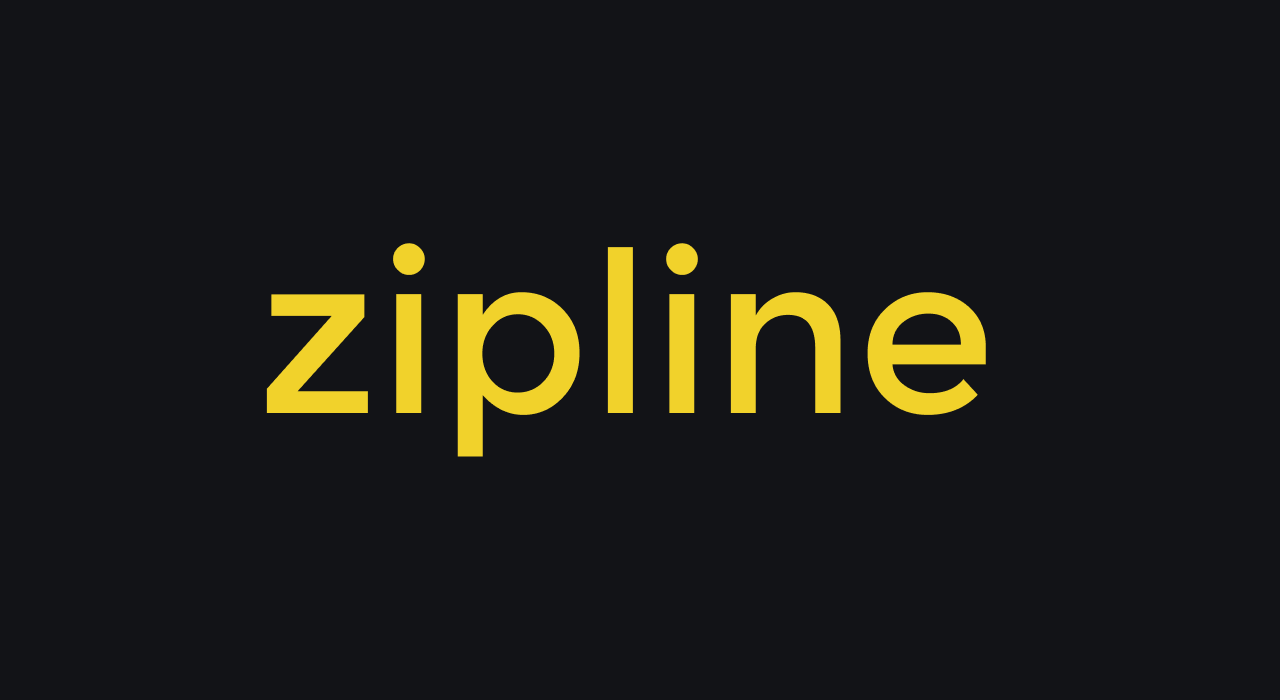
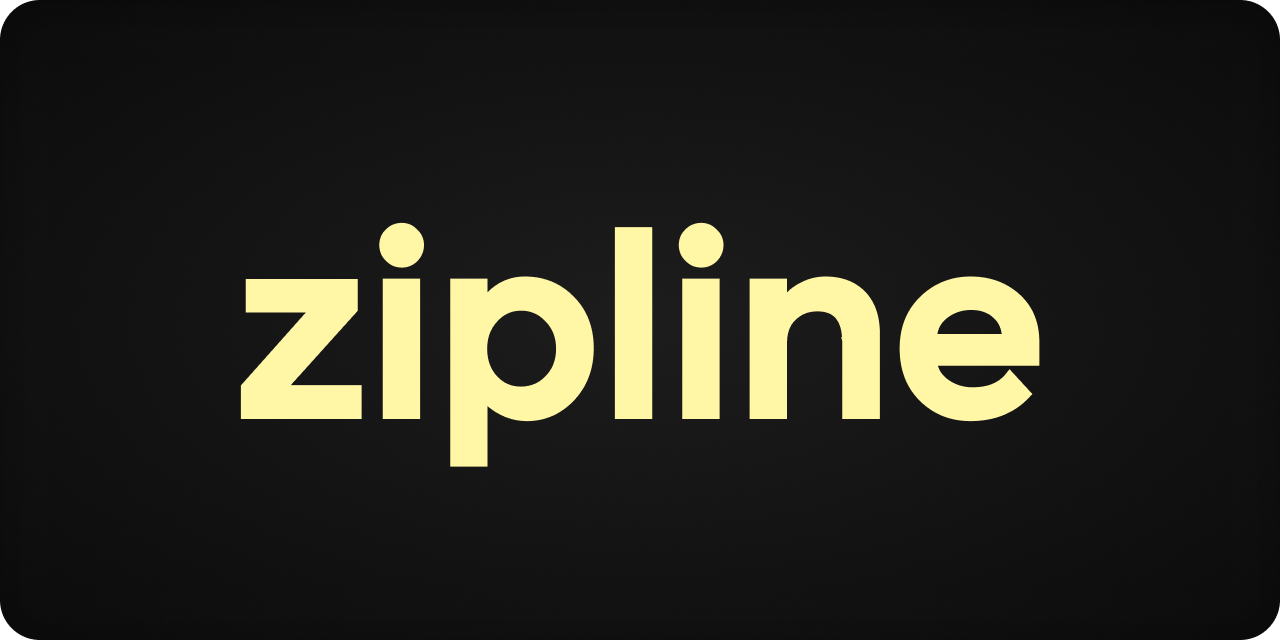
feat: update branding + update next.js

diff --git a/src/pages/premium.tsx b/src/pages/premium.tsx
@@ -1,0 +1,78 @@
+import { GetServerSideProps } from 'next';
+import { useRouter } from 'next/router';
+import { NextSeo } from 'next-seo';
+
+import Center from '../components/Center';
+import Container from '../components/Container';
+import { useEffect } from 'react';
+
+export default function Premium({ stars }: { stars: number }) {
+  const router = useRouter();
+
+  useEffect(() => {
+    router.push('https://youtube.com/watch?v=dQw4w9WgXcQ');
+  }, []);
+
+  return (
+    <>
+      <NextSeo
+        description='Hosted Zipline for only $6.99 a month!'
+        openGraph={{
+          url: 'https://zipline.diced.sh/premium',
+          title: 'Premium',
+          description: 'Hosted Zipline for only $6.99 a month!',
+          images: [
+            {
+              url: '/img/og-banner-premium.png',
+            },
+          ],
+        }}
+        twitter={{
+          cardType: 'summary_large_image',
+        }}
+      />
+
+      <Container>
+        <Center>
+          <div className='my-28 w-full mx-6'>
+            <div className='sm:text-7xl text-5xl font-medium text-center'>
+              <div>
+                The{' '}
+                <span className='bg-clip-text from-purple-500 via-blue-400 to-purple-500 text-transparent bg-gradient-to-r bg-pos-0 bg-size-200'>
+                  premium
+                </span>{' '}
+              </div>
+              <div>ShareX / File upload server</div>
+            </div>
+          </div>
+        </Center>
+      </Container>
+    </>
+  );
+}
+
+export const getServerSideProps: GetServerSideProps = async () => {
+  const res = await fetch('https://api.github.com/repos/diced/zipline', {
+    headers: {
+      Accept: 'application/vnd.github.v3+json',
+      ...(process.env.GITHUB_TOKEN
+        ? { Authorization: 'token ' + process.env.GITHUB_TOKEN }
+        : {}),
+    },
+  });
+
+  if (!res.ok)
+    return {
+      props: {
+        stars: 0,
+      },
+    };
+
+  const data = await res.json();
+
+  return {
+    props: {
+      stars: data.stargazers_count,
+    },
+  };
+};

diff --git a/src/pages/_app.tsx b/src/pages/_app.tsx
@@ -42,25 +42,13 @@ export default function App({ Component, pageProps }: AppProps) {
             href: '/favicons/favicon-32x32.png',
             sizes: '32x32',
           },
-          {
-            rel: 'icon',
-            type: 'image/png',
-            href: '/favicons/favicon-64x64.png',
-            sizes: '64x64',
-          },
-          {
-            rel: 'icon',
-            type: 'image/png',
-            href: '/favicons/favicon-128x128.png',
-            sizes: '128x128',
-          },
-          {
-            rel: 'icon',
-            type: 'image/png',
-            href: '/favicons/favicon-512x512.png',
-            sizes: '512x512',
-          },
           { rel: 'icon', type: 'image/svg', href: '/favicons/favicon.svg' },
+          {
+            rel: 'apple-touch-icon',
+            sizes: '180x180',
+            href: '/favicons/apple-touch-icon.png',
+          },
+          { rel: 'manifest', href: '/favicons/site.webmanifest' },
         ]}
         additionalMetaTags={[
           { name: 'viewport', content: 'width=device-width,initial-scale=1' },
